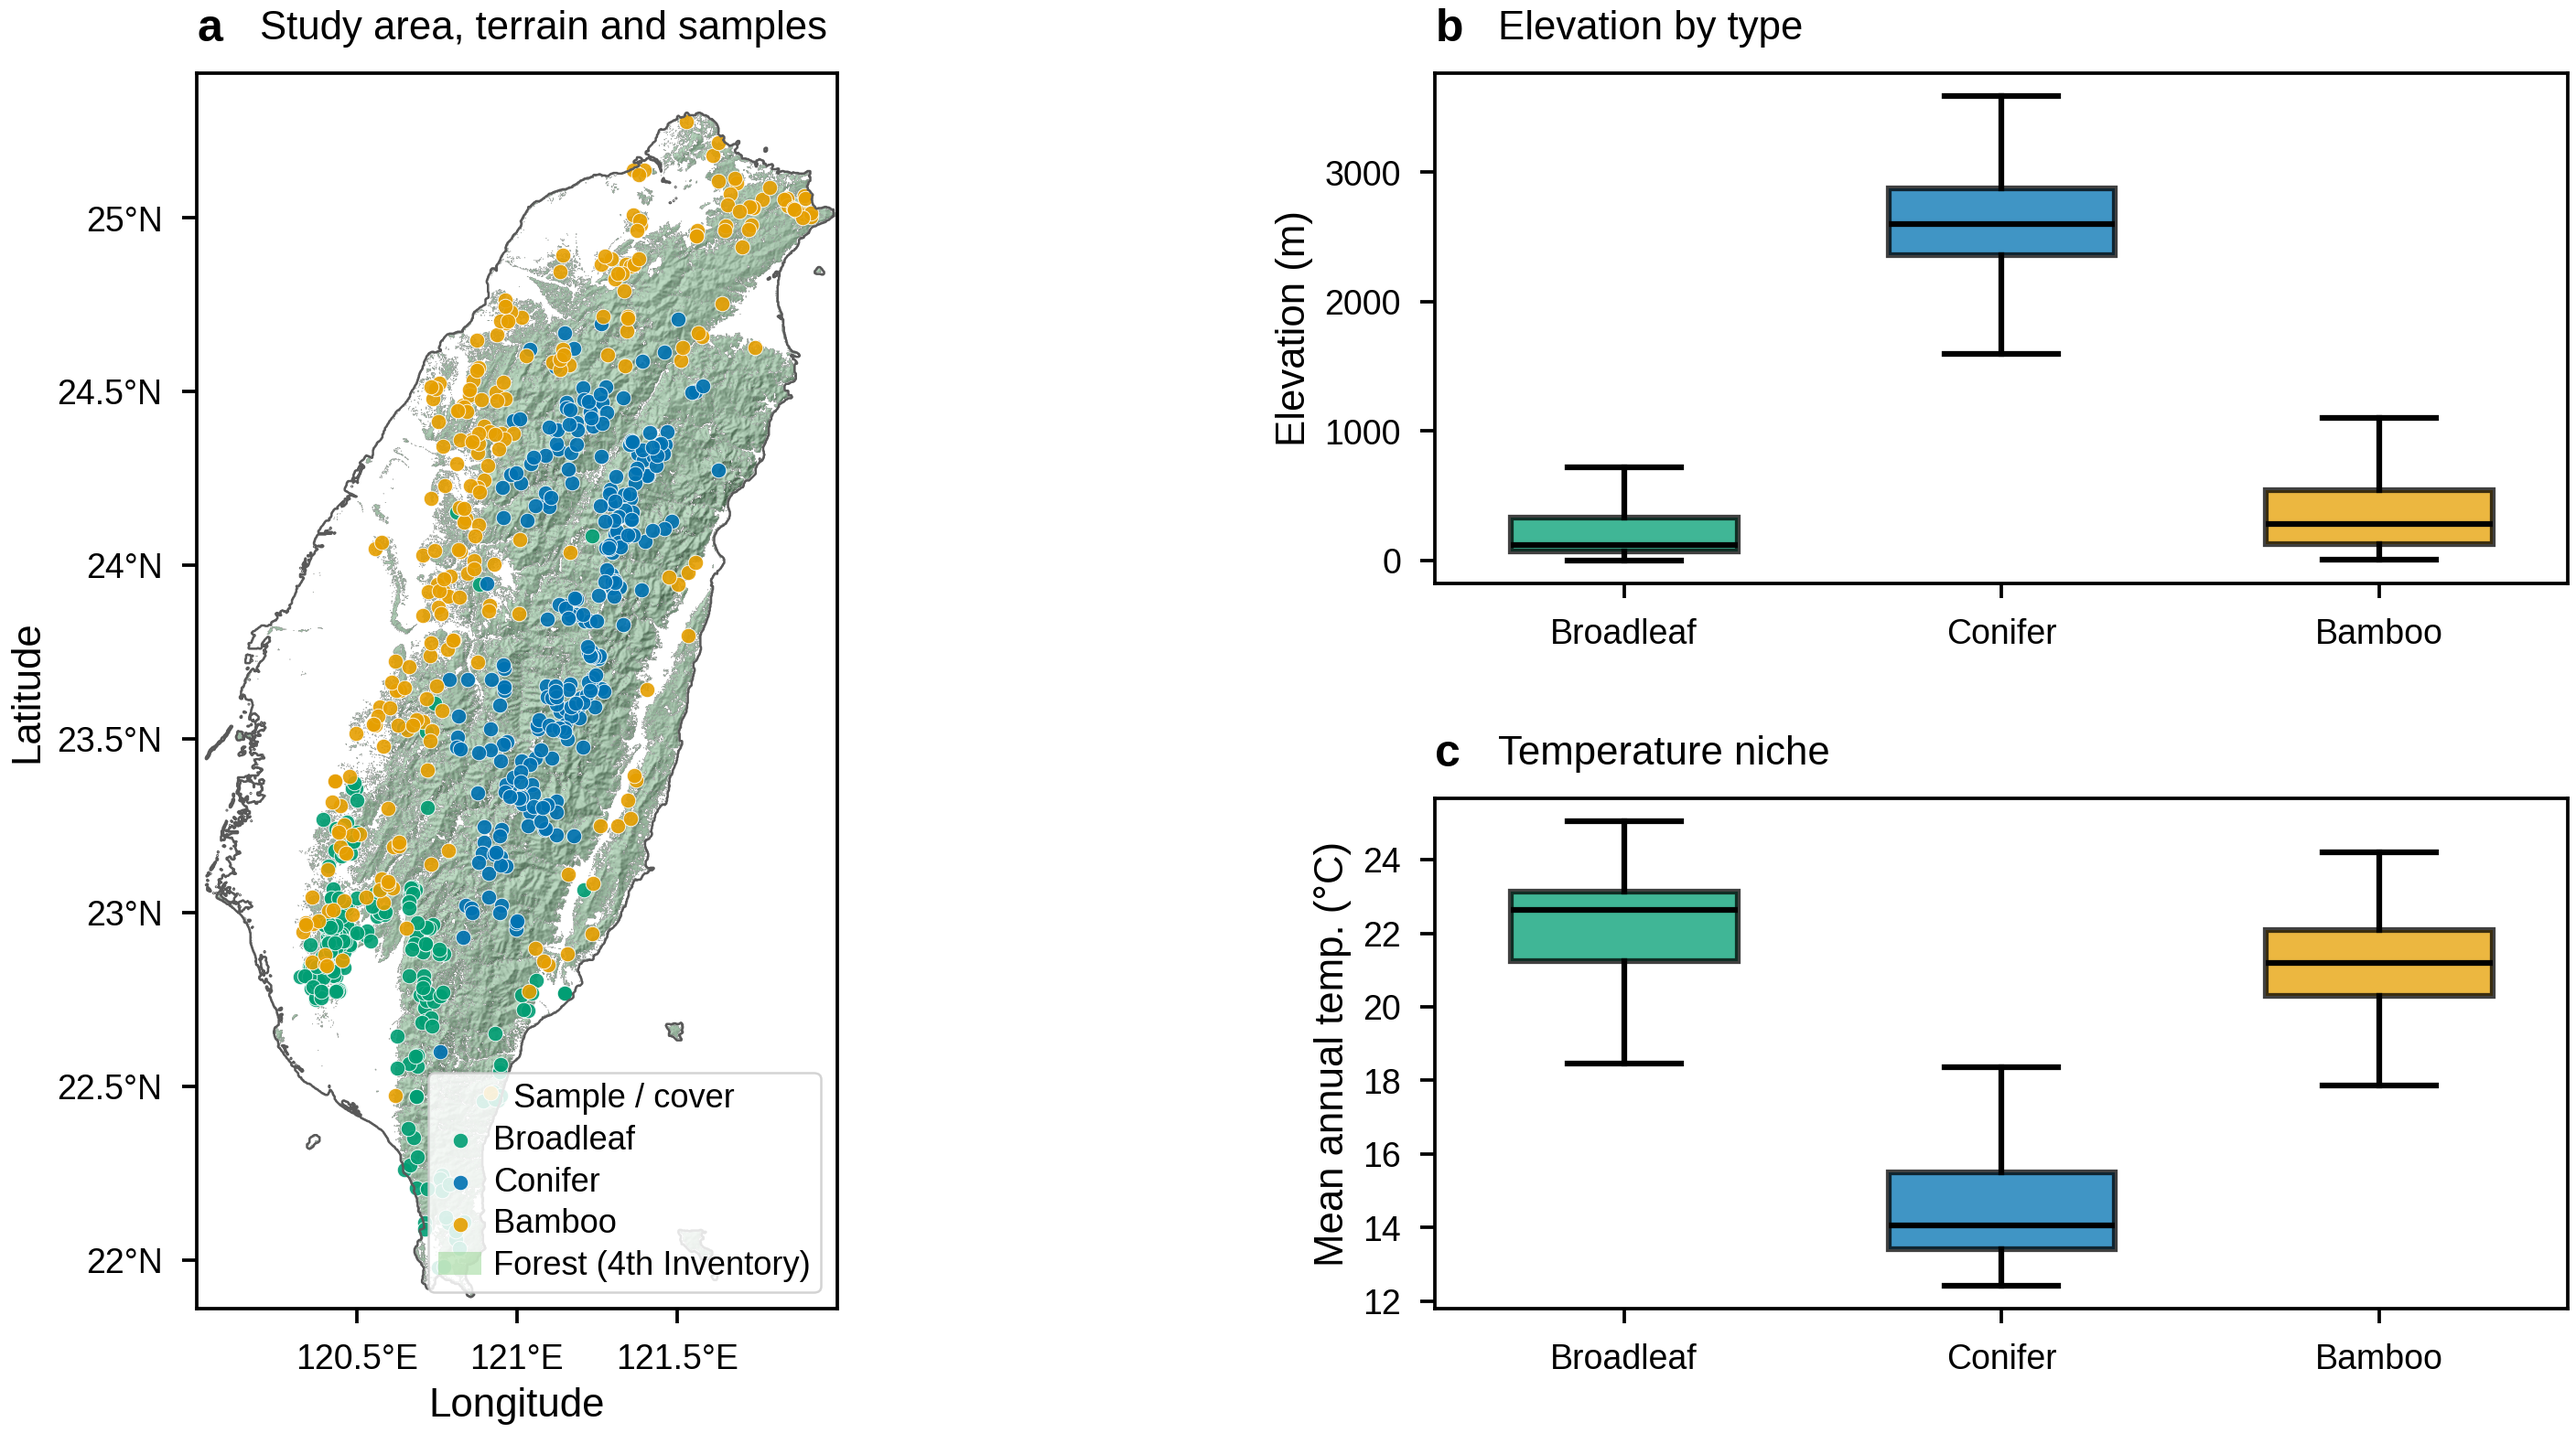
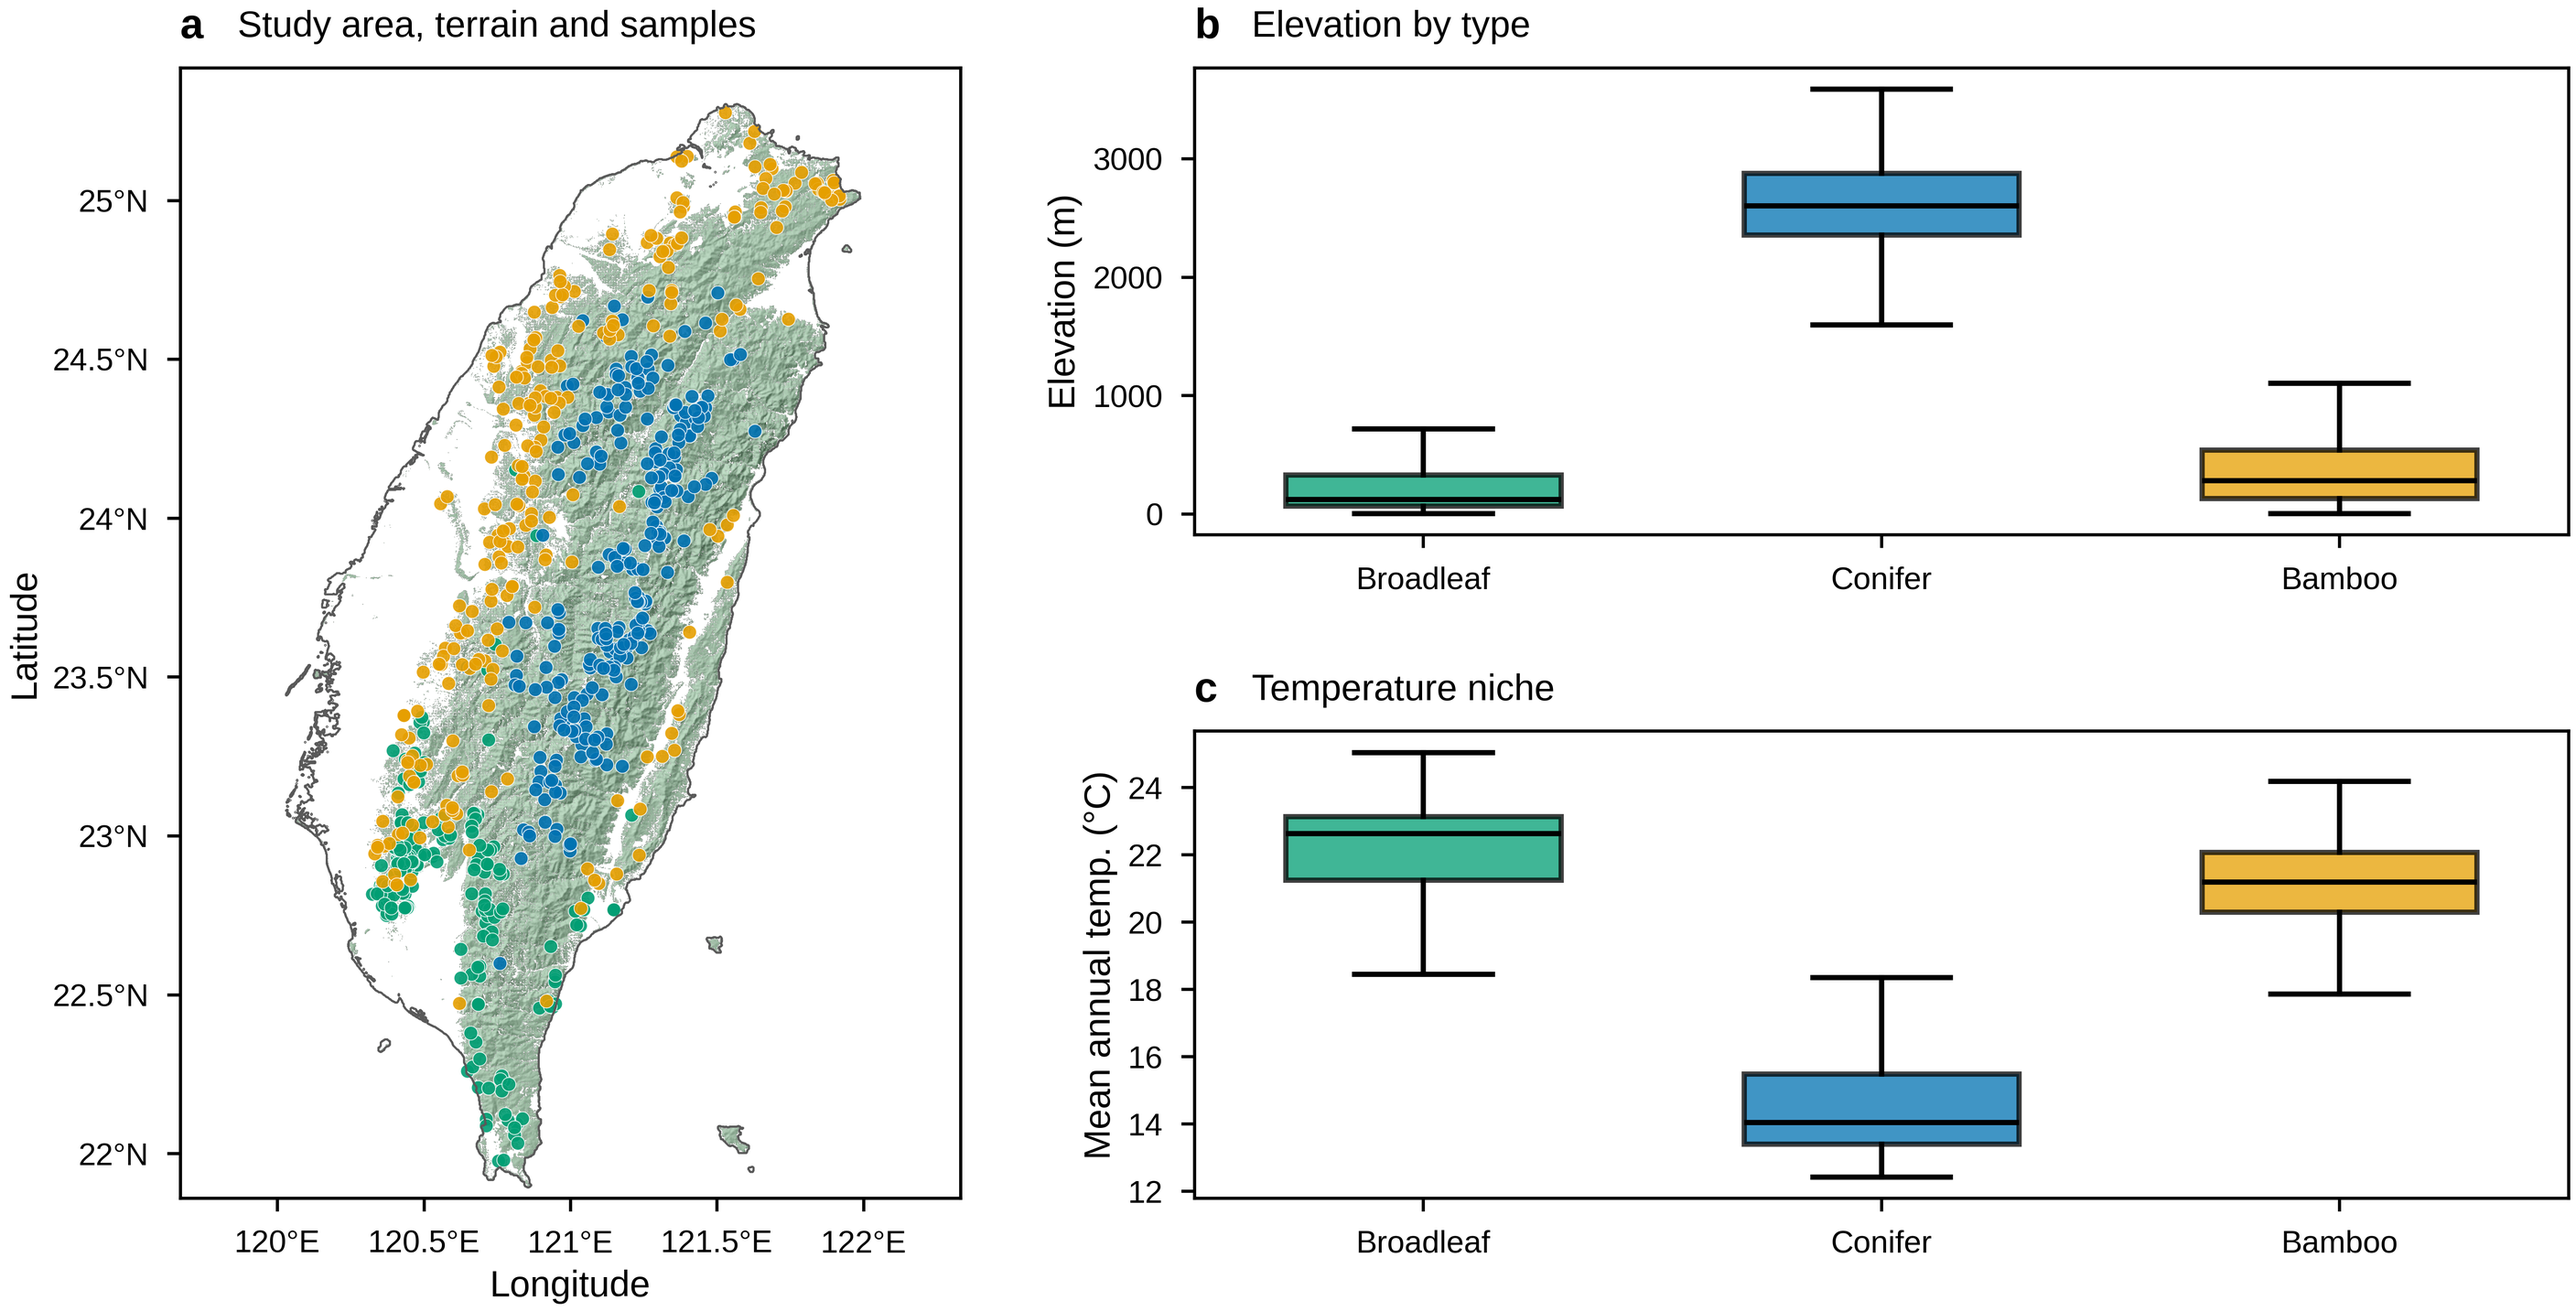
Redraw fig1 and fig9 with layout changes only (legend removed, wider map frame, gaps between chips)

diff --git a/CHANGELOG.md b/CHANGELOG.md
@@ -1,5 +1,10 @@
 # Changelog
 
+## Unreleased
+
+- `figures/fig1_study_area.png` and `figures/fig9_canopy_chips.png` redrawn with layout changes only
+  (legend removed from the map and its frame widened; small gaps between the canopy chips). No change to data, code or results.
+
 ## v1.1.1 — 2026-09-18
 
 - Documentation and metadata revised; analysis folders renamed to `src/analyses/`, `results/analyses/`,
